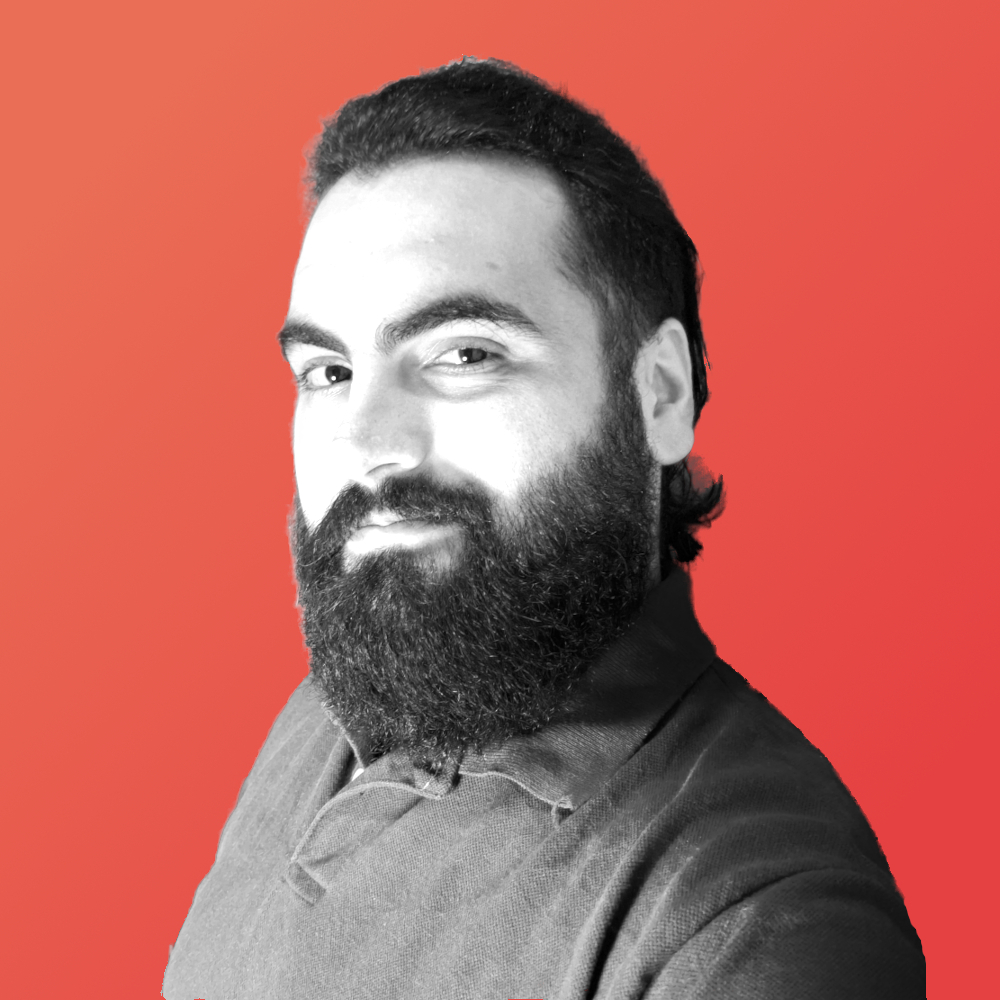
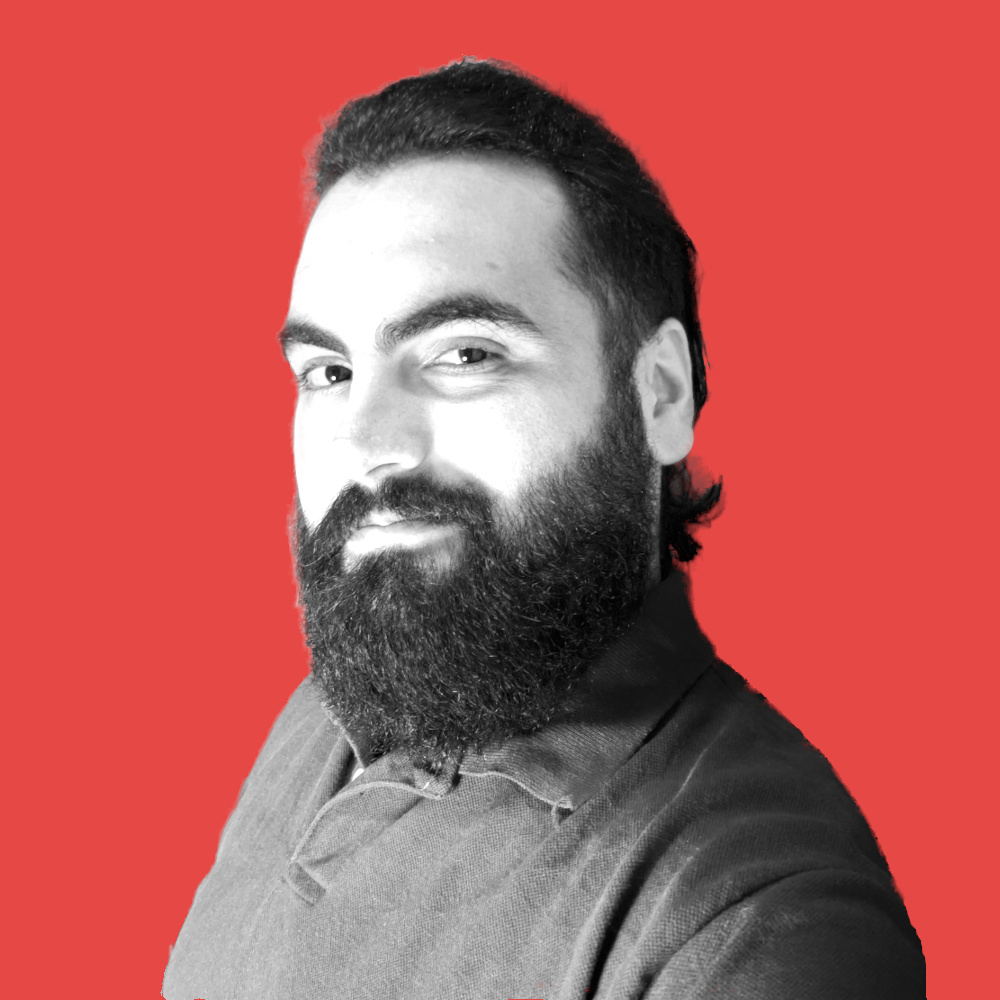
fix bg initial section, add github

diff --git a/index.html b/index.html
@@ -132,6 +132,19 @@
           </a>
           
           <a
+            href="https://github.com/psygreg"
+            target="_blank"
+            class="transition duration-300 hover:opacity-80"
+            title="GitHub"
+          >
+            <img
+              src="elements/github.png"
+              alt="GitHub"
+              class="h-12 w-12"
+            />
+          </a>
+          
+          <a
             href="https://instagram.com/psygreg"
             target="_blank"
             class="transition duration-300 hover:opacity-80"
